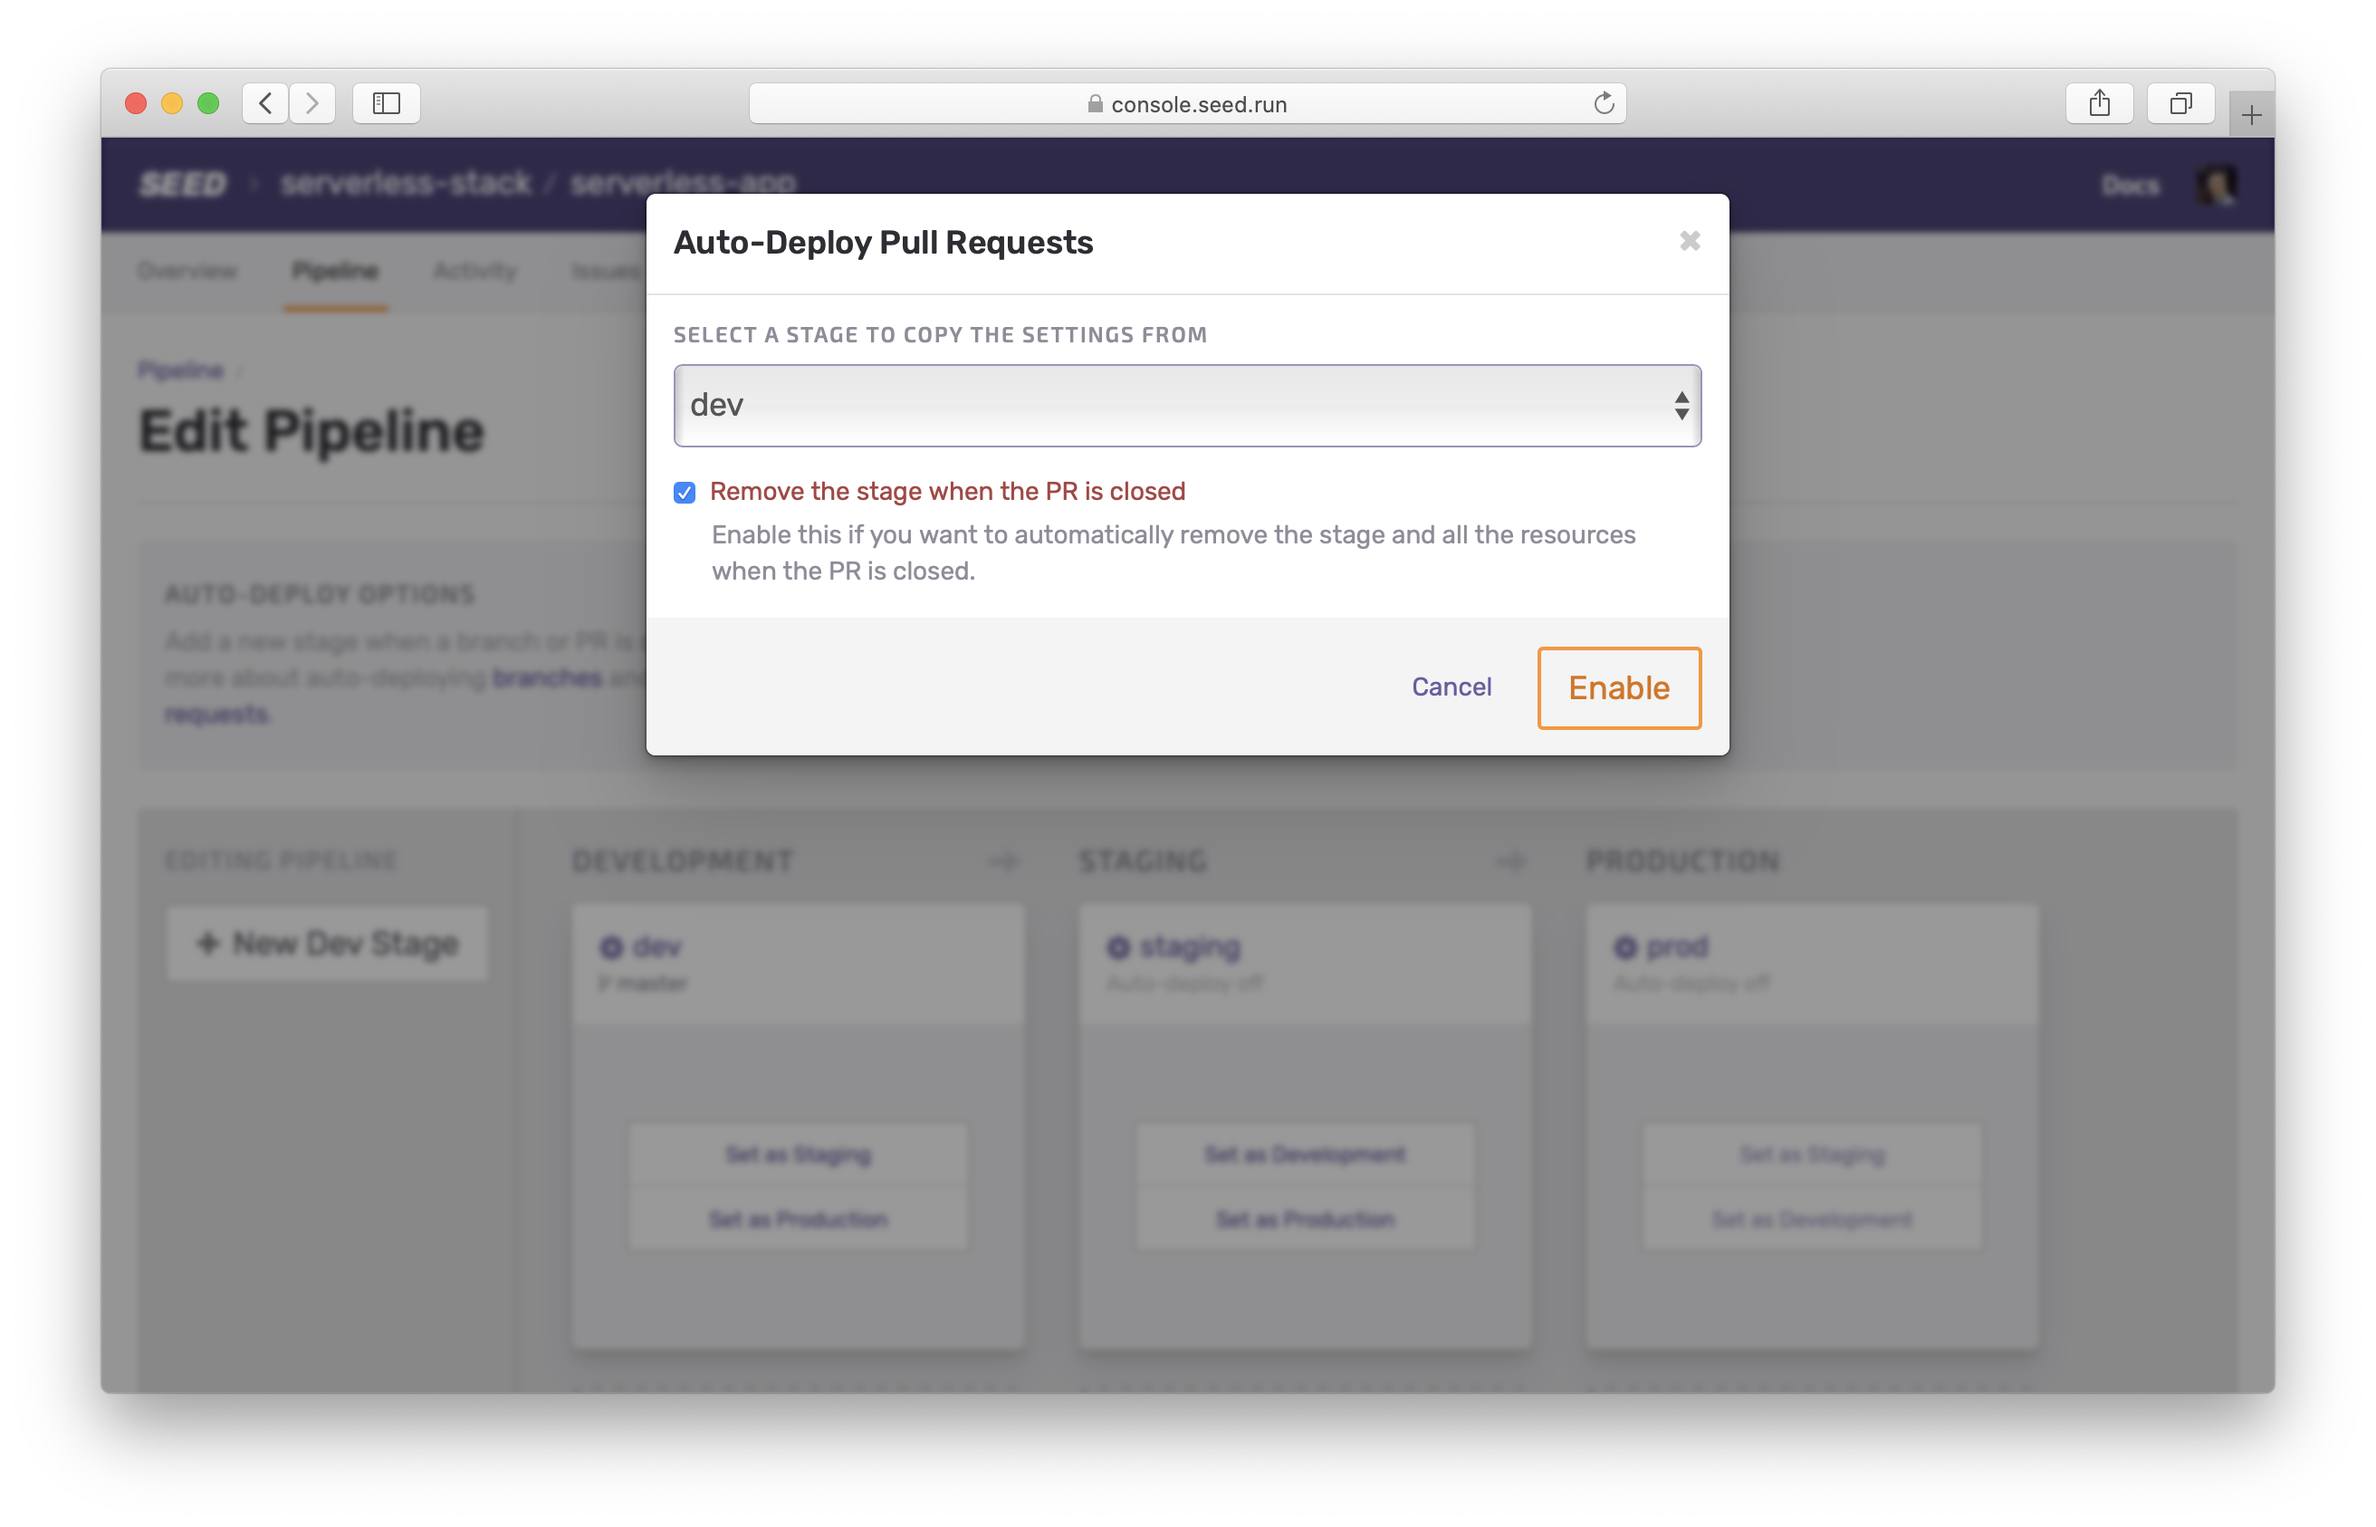
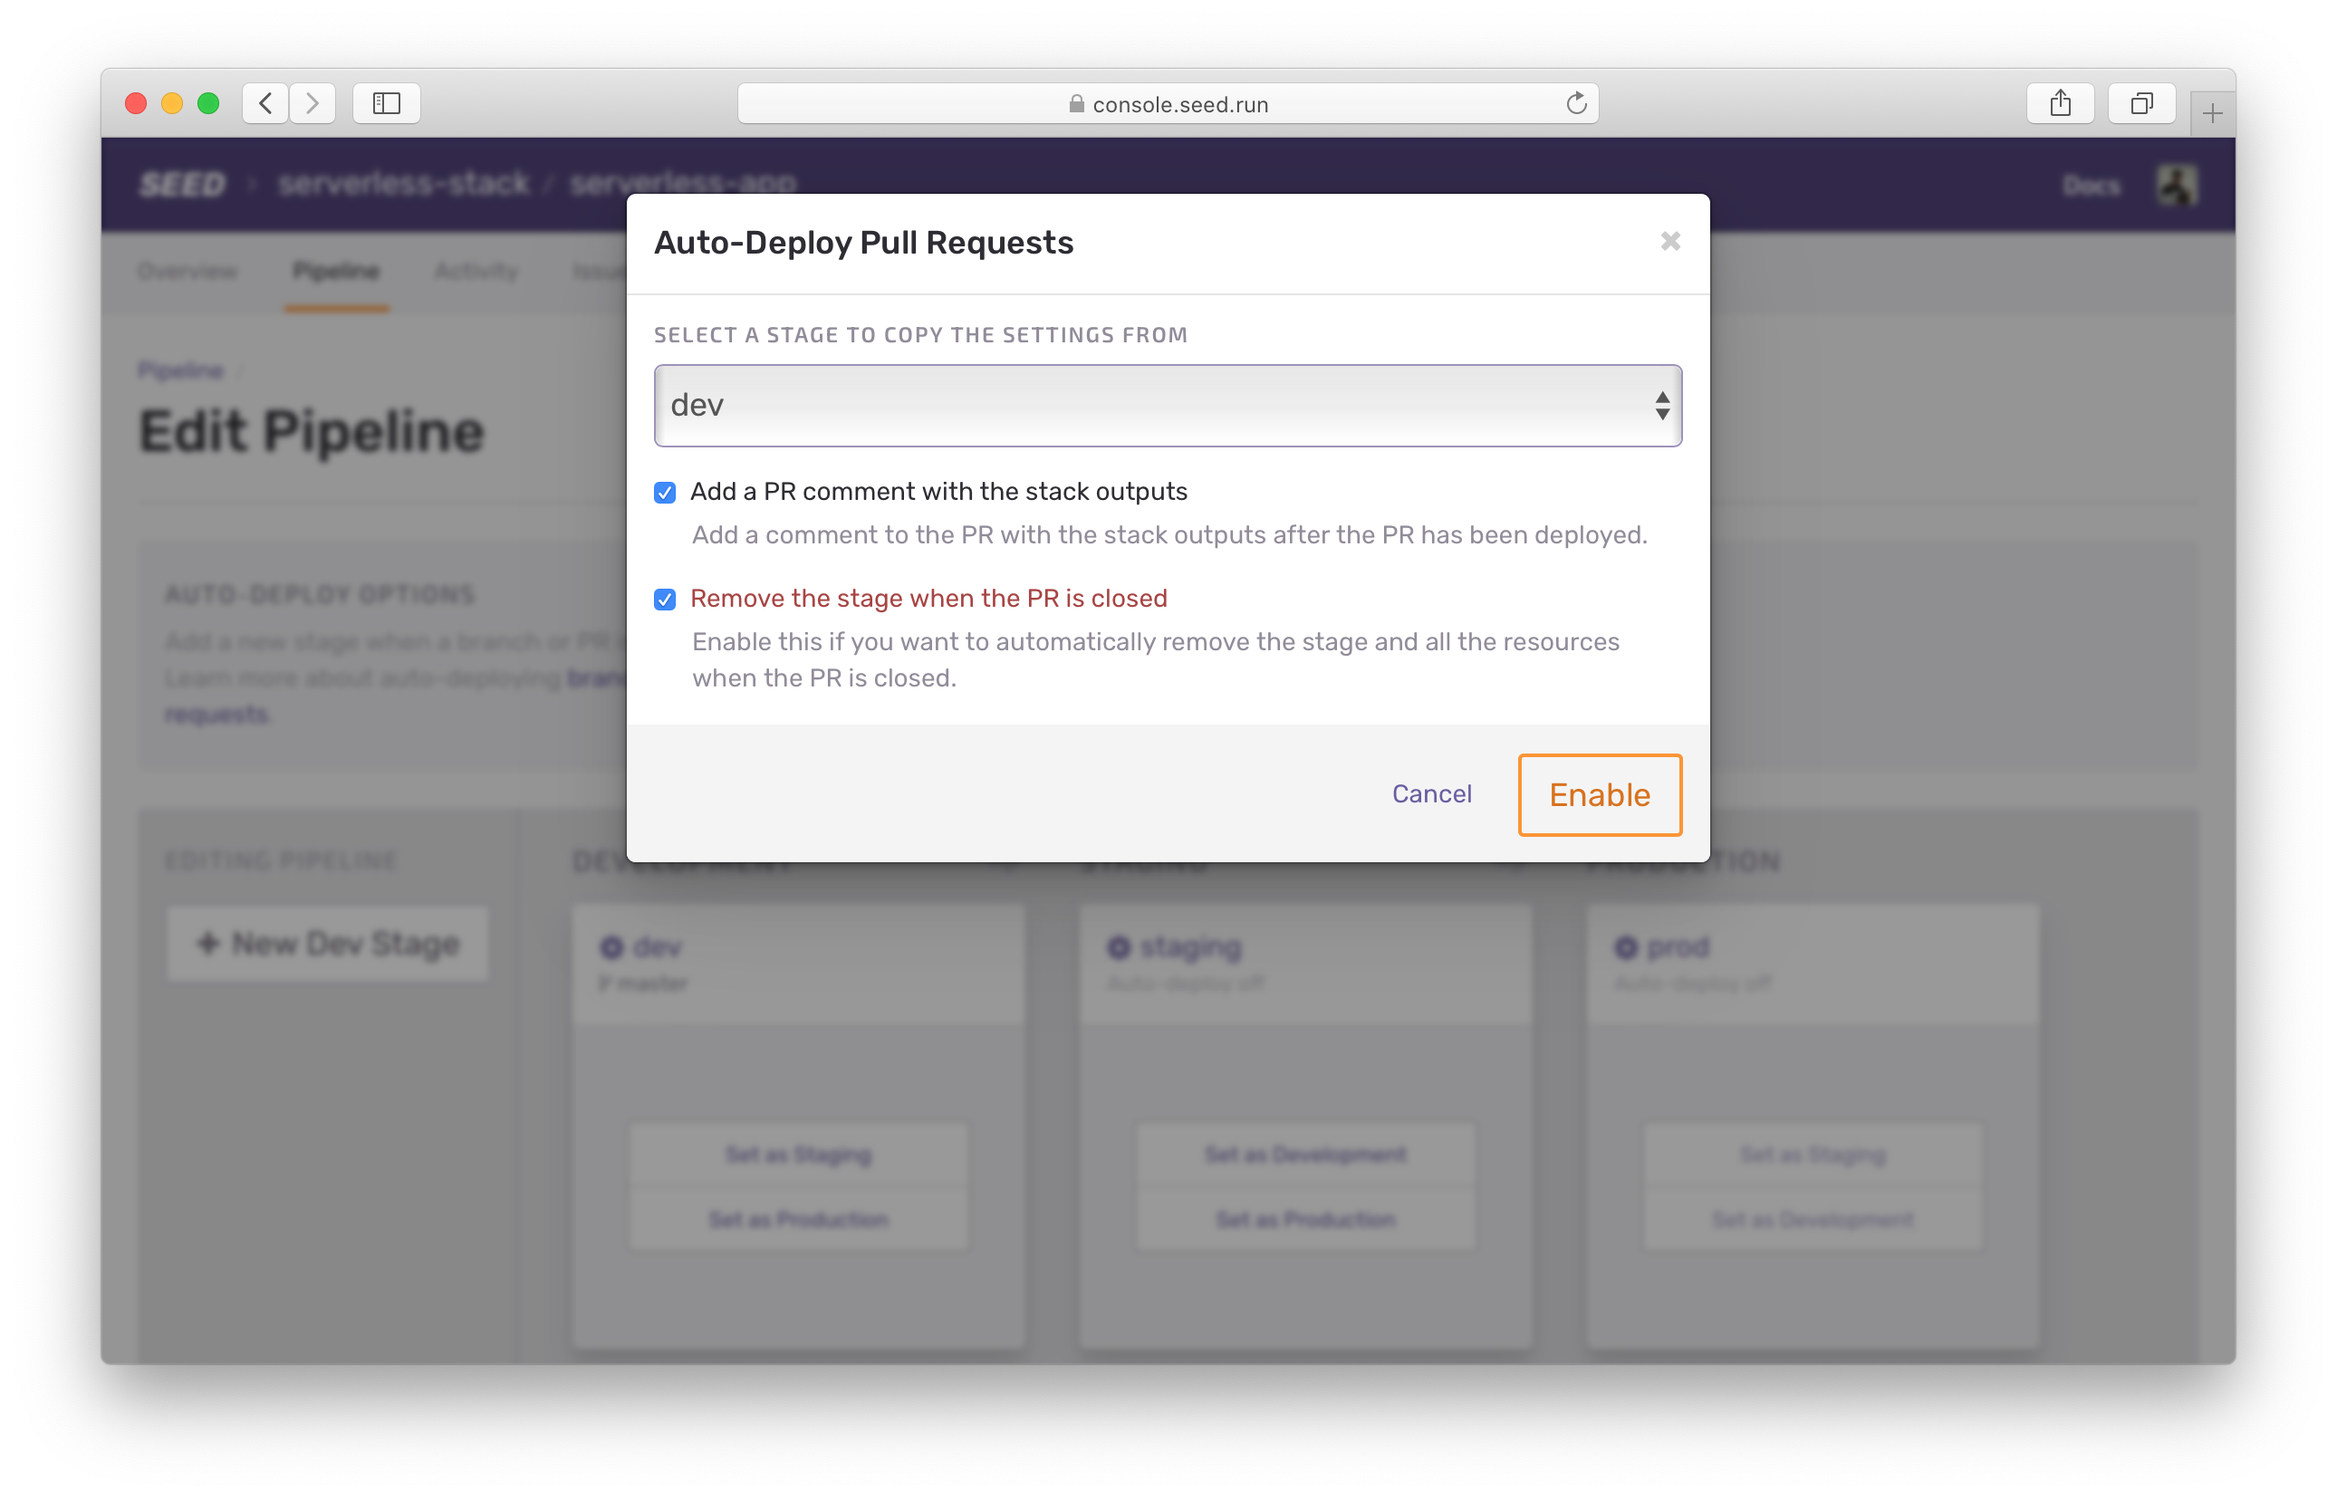
Updating docs and adding blog post

diff --git a/_docs/working-with-pull-requests.md b/_docs/working-with-pull-requests.md
@@ -32,6 +32,8 @@ You also have the option here to remove the PR stage and the deployed resources 
 
 ![Auto-deploy pull request options](/assets/docs/working-with-pull-requests/auto-deploy-pr-options.png)
 
+Seed will also add a comment to the PR with the stack outputs once the PR has been deployed. We'll look at this in detail below. You can disable this by making sure the **Add a PR comment with the stack outputs** option is unchecked.
+
 Next, let's work through the PR workflow.
 
 ### Create a PR
@@ -58,13 +60,13 @@ GitHub will let you know once the PR has been built.
 
 Seed adds some useful info once your PR has been built.
 
-![Seed PR complete info in GitHub](/assets/docs/working-with-pull-requests/seed-pr-complete-info-in-github.png)
+It'll add a comment to the PR with the stack outputs from all the services that've been deployed. You can disable this by making sure the **Add a PR comment with the stack outputs** option is unchecked in the auto-deploy PR settings in Seed.
 
-In the above screenshot:
+![Seed PR stack outputs in GitHub](/assets/docs/working-with-pull-requests/seed-pr-stack-outputs-in-github.png)
 
-1. Seed will add a comment with a list of any deployed API endpoints. This is useful for cases where you have a frontend application that needs to be tested against this endpoint.
+The **View deployment** button in the environments section takes you to the deployed stage in Seed.
 
-2. And the **View deployment** button in the environments section takes you to the deployed stage in Seed.
+![Seed PR deployment environments in GitHub](/assets/docs/working-with-pull-requests/seed-pr-deployment-environments-in-github.png)
 
 Also, if the PR fails to deploy, the **Details** link will take you straight to the build logs on Seed.
 

diff --git a/_posts/2021-06-15-viewing-stack-outputs-for-pull-requests.md b/_posts/2021-06-15-viewing-stack-outputs-for-pull-requests.md
@@ -1,0 +1,18 @@
+---
+layout: post
+title: Viewing stack outputs for Pull Requests
+categories: news
+author: frank
+---
+
+Seed will add comments in your PRs with the stack outputs from the services that have been deployed.
+
+![Seed PR comment with stack outputs](/assets/blog/viewing-stack-outputs-for-pull-requests/seed-pr-comment-with-stack-outputs.png)
+
+Previously, if you were [auto-deploying PRs]({% link _docs/working-with-pull-requests.md %}), Seed would add a comment in your PR with the deployed API endpoint. Now, Seed will show the entire stack output from all the services in your app. You can expand the details in the comment by clicking **View stack outputs**. 
+
+You can also optionally disable this behavior from the PR settings. Make sure to uncheck the **Add a PR comment with the stack outputs** option.
+
+![Disable Seed PR stack outputs comment](/assets/blog/viewing-stack-outputs-for-pull-requests/disable-seed-pr-stack-outputs-comment.png)
+
+Read more about this over on our docs on [Working with pull requests]({% link _docs/working-with-pull-requests.md %}).
